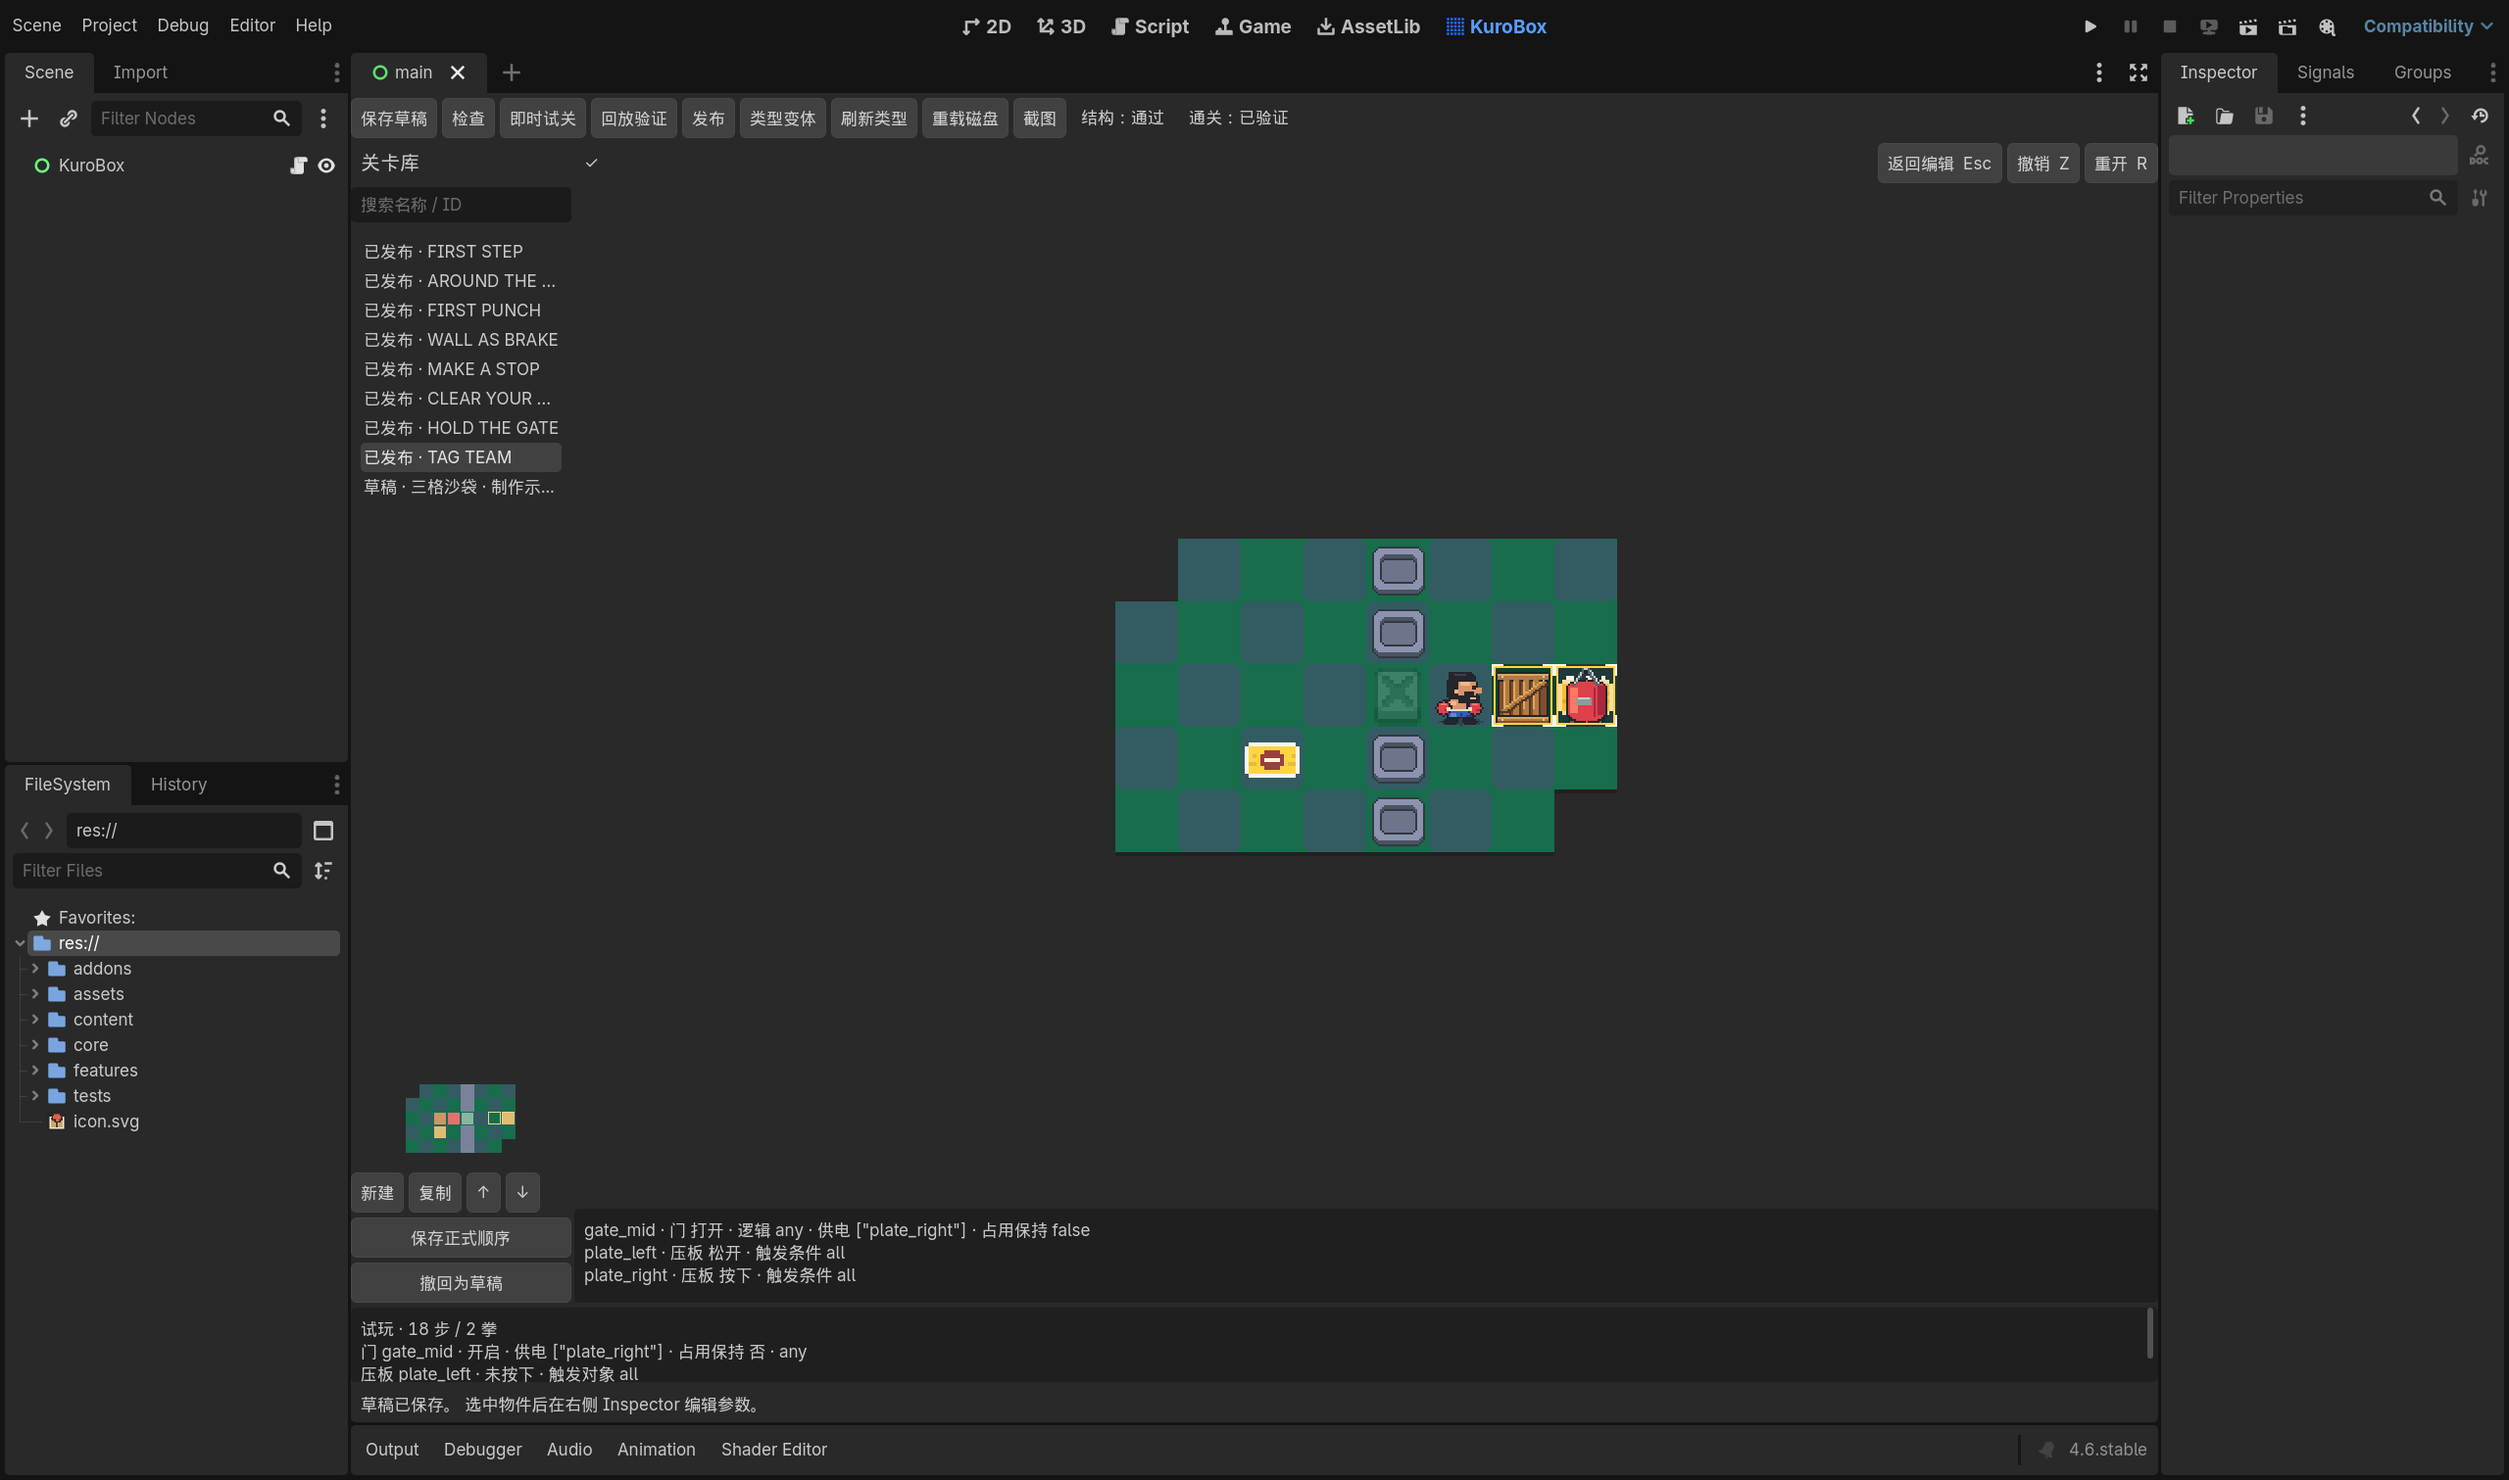
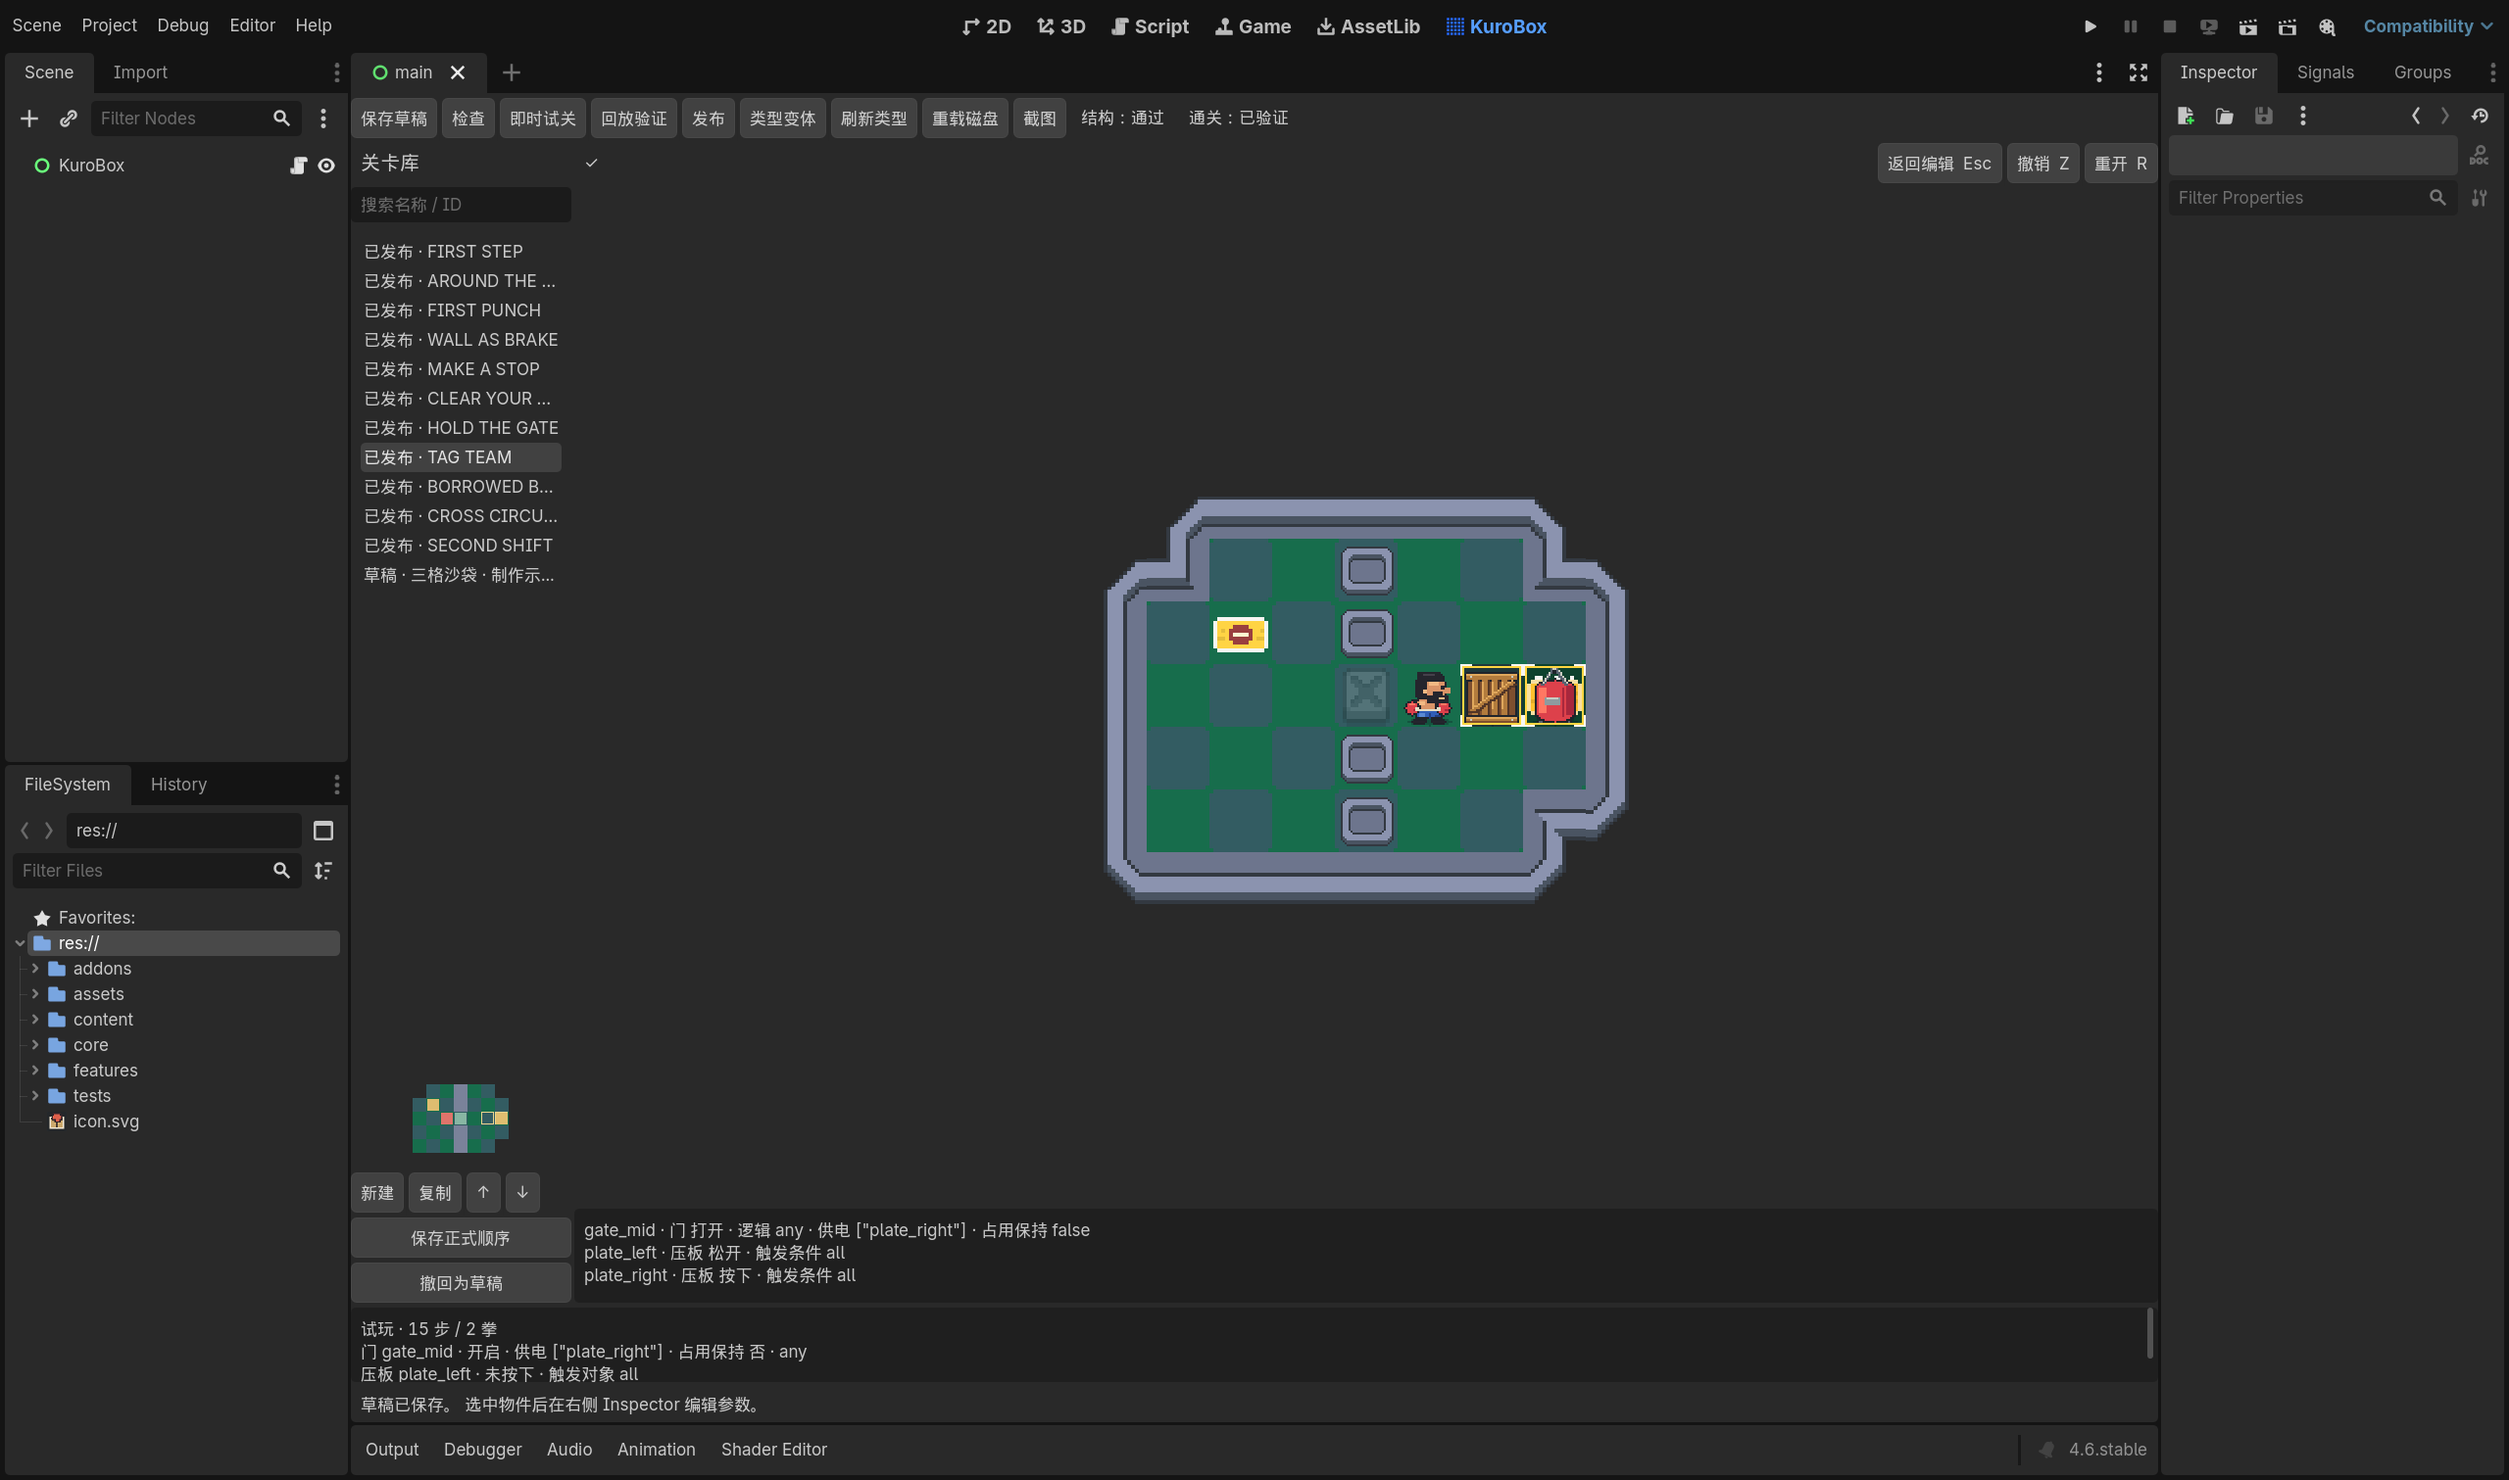
Show gameplay and editor screenshots in the README

Changed region(s): [[0.4375, 0.3111, 0.6562, 0.6221], [0.125, 0.3111, 0.2188, 0.4044], [0.1562, 0.7154, 0.2188, 0.7776]]

diff --git a/README.md b/README.md
@@ -2,6 +2,8 @@
 
 拳击主题的格子解谜游戏，使用 Godot 4.6 和 GDScript。木箱可以推一格，沙袋靠出拳移动；通过站位、阻挡和机关安排它们的落点。工程包含八个基础关卡、三个进阶挑战，以及 Godot Editor 内的关卡工作台。
 
+![第 8 关游玩画面，展示拳手、沙袋、压板与机关门](docs/images/campaign_08_start.png)
+
 ## 运行游戏
 
 用 Godot 4.6 打开 `project.godot`，按 F5。Windows 导出程序位于本地 `builds/windows/KuroBox.exe`。
@@ -19,6 +21,10 @@
 
 前八关依次引入推动、站位、拳击、制动和供电交接。第5关需要实际利用木箱制动；第7关先展示离板关门，再要求持续供电；第8关沿用同一空间，省去重复准备，让沙袋接班后回收木箱。进阶关卡扩大回身与暂存空间，组合这些已经学过的关系，不增加文字教学。
 
+第 11 关中，镜头跟随拳手移到棋盘下方。
+
+![第 11 关进阶关卡中的跟随镜头](docs/images/campaign_final_follow.png)
+
 关卡变化、输入验证和实际游戏截图见 [关卡与输入更新](docs/campaign_update.md)。
 
 ## 在 Godot Editor 制作关卡
@@ -26,6 +32,8 @@
 打开工程后，点击顶部与 2D、3D、Script 并列的 **KuroBox**。也可以从 `Project > Tools > KuroBox 关卡工作台` 进入。插件已在工程中启用；若入口未出现，可在 `Project Settings > Plugins` 检查 KuroBox Workbench。
 
 左侧关卡库管理内容，中间绘制，右侧原生 Inspector 配置选中的实例。
+
+![Godot 原生关卡工作台，右侧显示沙袋的三格击退参数](docs/images/native_editor_parameters.png)
 
 1. **新建或复制。** 关卡 ID 用于文件与存档引用，标题用于显示。复制从当前内存内容另存，不要求先覆盖原文件；机关 ID 和内部引用会一起重建。
 2. **绘制与布设。** 地板、墙、目标、实体和装置分层。拖刷、矩形、填充、选区复制移动都以整笔撤销；箱子不会擦掉下面的压板。滚轮围绕鼠标缩放，中键拖动画布，“适配全图”恢复视野。
@@ -35,6 +43,8 @@
 6. **发布。** 只有结构校验与当前版本的实际重放都通过，才能写入正式关卡并登记到流程。左侧可调整顺序后统一保存；撤回发布会保留草稿，并先处理当前未保存修改。
 
 试关下方显示压板是否按下、门的供电来源、组合规则，以及是否因玩家或箱子占门而保持开启。检查结果可以点击定位，Inspector 也能在棋盘上定位选中物件。
+
+![工作台内回放第 8 关，下方显示机关的供电状态](docs/images/native_editor_mechanisms.png)
 
 磁盘文件被外部修改时会拒绝静默覆盖。可以把当前内存修改复制成新关卡，或先保留恢复副本再重载磁盘版本。
 
